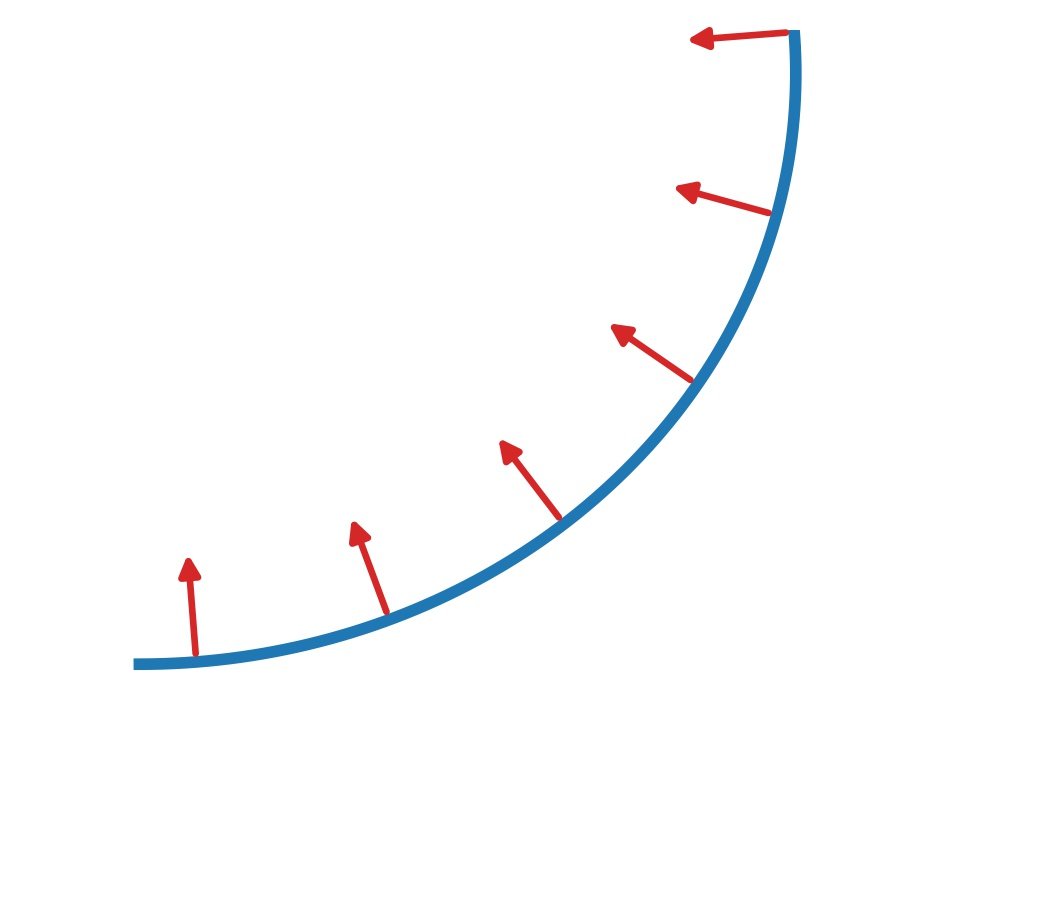
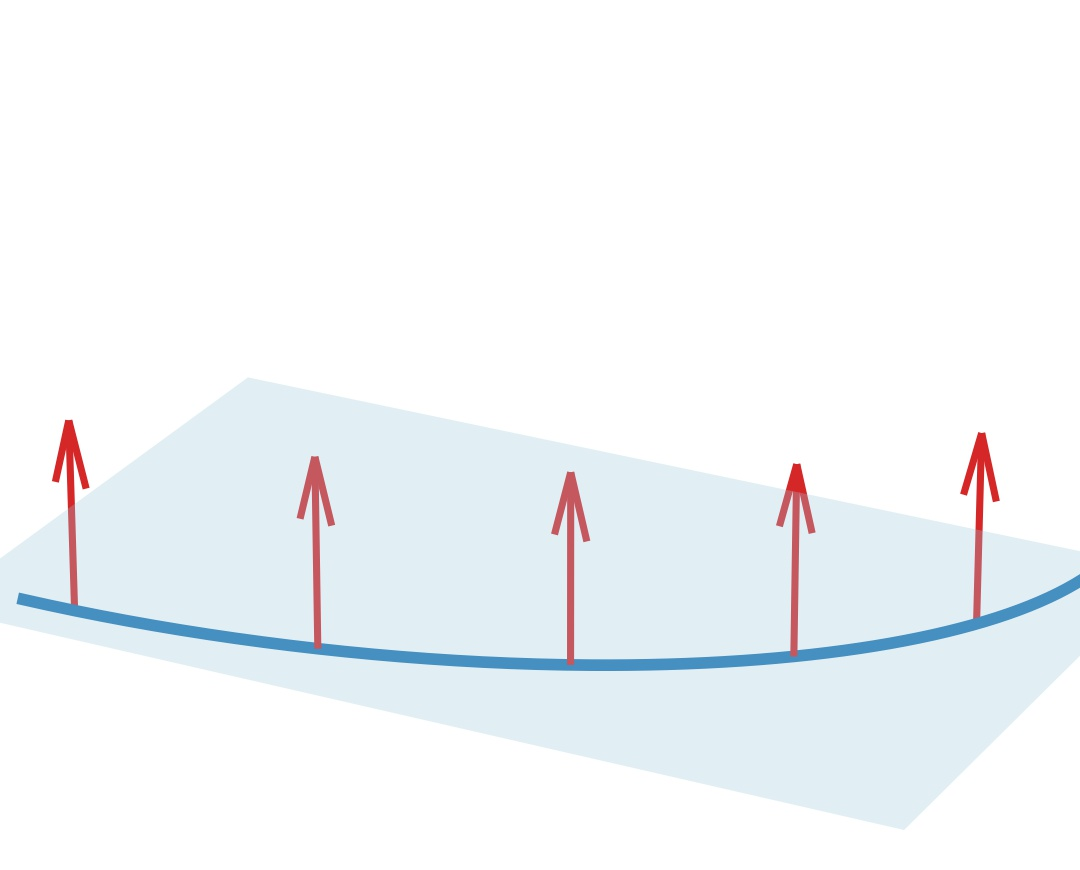
Overnight batch: K=32 value-law pools, fixed-entropy continuous PPO, 3D figure, guaranteed l_pw upper reference
- Selector campaign regenerated at K=32/N_dir=40 with labels rolled under
  the VALUE law (previous labels were margin-law rollouts, inconsistent
  with the text); rankers retrained. Tables II/III/V rebuilt.
- Framework (FR3 benchmark): random 0.617 -> selector 0.677 -> oracle
  0.706 m; fractions of l_pw 0.87/0.90, 0.95/0.98, 0.98/0.99, all <= 1
  per task by construction.
- l_pw finalized: 1 cm march, 96 directions, 16 retries, rollout
  witnesses; residual overtakes <= 11 mm (one step) on 17.8% of tasks,
  absorbed by the stated per-task max definition (binds by 2.8 mm mean).
- Continuous PPO retrained with tanh-corrected entropy: 1.26 (was 1.39,
  an entropy-bug artifact that saturated the policy); vertex
  parameterization now shown to be beneficial. Row 2 + text rewritten.
- OOD table in stroke + fraction-of-oracle; transfer restated: capture
  follows path curvature, unseen families match seen families per class.
- Fig. 2 panels redrawn in 3D with translucent task plane.

diff --git a/Yuan/IJRR/2026_Yuan_RAL/main.tex b/Yuan/IJRR/2026_Yuan_RAL/main.tex
@@ -561,8 +561,8 @@ disjoint.
 
     \item \uline{Initial configurations:}
     For the full-framework and selection experiments, the candidate pool
-    contains $K=8$ configurations retrieved from
-    $N_{\mathrm{dir}}=10$ directions using IKSel. The learned selector
+    contains $K=32$ configurations retrieved from
+    $N_{\mathrm{dir}}=40$ directions using IKSel. The learned selector
     ranks these candidates, and the selected configuration is followed by
     one damped-least-squares refinement. Controller-only comparisons use
     the same fixed initial configuration for all methods to isolate the
@@ -592,19 +592,23 @@ disjoint.
     the mean per-task ratio to the classical controller. For experiments
     requiring a task-specific reachability reference, we additionally use
     the numerical pointwise-reachable length $\ell^{\mathrm{pw}}$,
-    computed as follows. The task's path is sampled every $2$\,cm of arc
+    computed as follows. The task's path is sampled every $1$\,cm of arc
     length, and at each sample a numerical search asks whether any
     admissible configuration exists, i.e., one whose tool tip lies within
     $\epsilon_{\mathrm{pos}}$ of the sample, whose tool axis lies inside
     the orientation cone, and which respects the joint limits and
     self-collision clearance. The search projects warm starts drawn from a
-    precomputed configuration table over cone-sampled tool directions,
-    together with the previous sample's solution;
+    precomputed configuration table over $96$ cone-sampled tool directions
+    with $16$ retries per sample, together with the previous sample's
+    solution, and configurations traversed by the evaluated rollouts are
+    additionally injected as feasibility witnesses;
     $\ell^{\mathrm{pw}}$ is the arc length of the first sample at which no
     admissible configuration is found. Because a failed search does not
-    prove infeasibility, configurations traversed by the evaluated
-    rollouts are additionally injected as feasibility witnesses, so the
-    reference is never below any evaluated stroke.
+    prove infeasibility, the reference is finally taken per task as the
+    maximum of the search estimate and the executed stroke, so it is never
+    below any evaluated stroke; at the deployed budget this adjustment
+    binds on $17.8\%$ of tasks, by $2.8$\,mm on average and $11$\,mm at
+    most, about one march step.
 \end{itemize}
 
 For the initial-configuration generalization study, we additionally
@@ -641,10 +645,11 @@ path families.
     \caption{Path families used to evaluate initial-configuration
     generalization: (a) a straight ray; (b) an arc with signed curvature;
     (c) a serpentine seam with sinusoidal lateral offset; and (d) a
-    straight path with a rotating cone axis. Red arrows indicate the local
-    cone axis $\mathbf{n}(s)$. Families (a) and (b) appear in selector
-    training, whereas (c) and (d) are used only for out-of-distribution
-    evaluation.}
+    straight path with a rotating cone axis. Each panel shows the path in
+    3D above the translucent task plane; red arrows indicate the local
+    cone axis $\mathbf{n}(s)$, which departs from the plane normal only in
+    (d). Families (a) and (b) appear in selector training, whereas (c) and
+    (d) are used only for out-of-distribution evaluation.}
     \label{fig:families}
 \end{figure*}
 
@@ -805,9 +810,9 @@ We next combine the learned initial-configuration selector with the
 critic-guided value controller. Table~\ref{tab:framework} reports the
 result on the FR3 evaluation set, with the value controller fixed across
 all rows so that only the initial configuration changes. Learned selection
-increases the mean stroke from $0.590$\,m for a randomly chosen candidate
-to $0.650$\,m. The selected trajectories achieve a median stroke equal to
-$0.97$ of the numerical pointwise-reachability reference
+increases the mean stroke from $0.617$\,m for a randomly chosen candidate
+to $0.677$\,m. The selected trajectories achieve a median stroke equal to
+$0.98$ of the numerical pointwise-reachability reference
 $\ell^{\mathrm{pw}}$, while the within-pool oracle indicates the remaining
 gap attributable to candidate ranking.
 
@@ -824,14 +829,14 @@ Initial configuration
 & \multicolumn{2}{c}{\shortstack{Fraction of $\ell^{\mathrm{pw}}$\\mean / median}} \\
 \midrule
 Random candidate
-& 0.590 & 0.84 & 0.88 \\
+& 0.617 & 0.87 & 0.90 \\
 
 \textbf{Learned selector (ours)}
-& \textbf{0.650} & \textbf{0.92} & \textbf{0.97} \\
+& \textbf{0.677} & \textbf{0.95} & \textbf{0.98} \\
 
 \midrule
 Within-pool oracle ($K$ rollouts)
-& 0.689 & 0.96 & 0.98 \\
+& 0.706 & 0.98 & 0.99 \\
 \bottomrule
 \end{tabular}
 \begin{tablenotes}
@@ -854,10 +859,10 @@ Within-pool oracle ($K$ rollouts)
 To isolate the selection stage, we fix the motion-generation controller and
 compare different ranking rules on the same candidate pool.
 Table~\ref{tab:ablate_seed} reports results on $2500$ held-out straight-path
-tasks. Taking the first feasible candidate reaches $0.85$ of the
+tasks. Taking the first feasible candidate reaches $0.87$ of the
 within-pool oracle stroke. Ranking by joint-limit margin or by the
-analytic margin field raises this to $0.91$, while the learned selector
-reaches $0.94$. These results show that rollout supervision provides a
+analytic margin field raises this to $0.92$, while the learned selector
+reaches $0.95$. These results show that rollout supervision provides a
 stronger ranking signal for initial configurations than the tested
 instantaneous geometric heuristics.
 
@@ -876,33 +881,33 @@ Type & Candidate Ranking Rule
 
 \textemdash
 & First Feasible Candidate
-& 0.537 & 0.853 \\
+& 0.571 & 0.869 \\
 
 \midrule
 Random
 & Random Valid Candidate
-& 0.553 & 0.870 \\
+& 0.584 & 0.880 \\
 
 \midrule
 \multirow{4}{*}{Heuristic}
 & Max Directional Manipulability
-& 0.548 & 0.867 \\
+& 0.579 & 0.877 \\
 & Max Orientation Margin
-& 0.548 & 0.865 \\
+& 0.580 & 0.879 \\
 & Max Joint-Limit Margin
-& 0.587 & 0.910 \\
+& 0.618 & 0.919 \\
 & Margin Field $\Phi_{\mathrm{m}}$
-& 0.586 & 0.911 \\
+& 0.621 & 0.924 \\
 
 \midrule
 Learned
 & \textbf{Learned Selector (Ours)}
-& \textbf{0.605} & \textbf{0.940} \\
+& \textbf{0.636} & \textbf{0.950} \\
 
 \midrule
 \textemdash
 & Within-Pool Oracle ($K$ Rollouts)
-& 0.656 & 1.000 \\
+& 0.681 & 1.000 \\
 
 \bottomrule
 \end{tabular}
@@ -921,17 +926,21 @@ We next examine whether the performance gap between the reactive policy and
 the value controller can be explained by the action parameterization or
 control granularity. Table~\ref{tab:action_space} reports three modifications
 on the FR3, with PPO retrained for $30$M environment steps under each
-modified setting. Replacing the vertex action space with a continuous command
-box leaves the mean policy ratio unchanged at $1.39$, indicating that the
-vertex parameterization itself does not explain the observed gap. Increasing
+modified setting. Replacing the vertex action space with a continuous
+command box \emph{lowers} the policy to $1.26$: trained with the
+tanh-corrected entropy bonus, the continuous policy no longer saturates
+the command box (median command magnitude $0.40$, under $3\%$ of
+components at the boundary) and loses part of the vertex policy's
+performance, which indicates that the vertex parameterization is itself
+beneficial, consistent with the structure derived in
+Section~\ref{sec:traj}. Increasing
 the null-space authority from $a_{\max}=0.5$ to $1.0$ yields ratios of $1.34$,
 $2.05$, and $2.09$ for the reactive policy, margin law, and value law,
 respectively. Increasing the control period from $50$ to $100$\,ms similarly
 leaves the reactive policy at $1.39$, while the value law reaches $1.93$.
 Across these tested settings, the critic-guided value controller therefore
-retains its advantage over direct policy deployment, and this advantage is
-not removed by changing either the action parameterization or the control
-interval.
+retains its advantage over direct policy deployment under every action
+parameterization and control interval tested.
 
 \begin{table}[!htbp]
 \centering
@@ -950,7 +959,7 @@ Default ($a_{\max}{=}0.5$, $50$\,ms)
 & 1.39 & 1.79 & 1.92 \\
 
 Continuous-action PPO
-& 1.39 & -- & -- \\
+& 1.26 & -- & -- \\
 
 Doubled authority ($a_{\max}{=}1.0$)
 & 1.34 & 2.05 & 2.09 \\
@@ -978,14 +987,16 @@ path families outside its training distribution. The selector is trained on
 $20{,}000$ tasks, comprising $10{,}000$ straight-line and $10{,}000$
 curved-line tasks in equal proportion, with all $K$ candidates of every
 training task rolled out to produce the ranking labels. It is then
-evaluated on $2{,}500$ held-out tasks from each of the four path families. Table~\ref{tab:ood} distinguishes \emph{Unseen}
-tasks drawn from the two training families from \emph{OOD} tasks belonging
-to sinusoidal and rotating-axis families that are absent from training.
-The selector recovers $64.9$--$67.1\%$ of the random-to-oracle gap on the
-OOD families, compared with $57.5$--$61.0\%$ on held-out tasks from the
-training families. These results show that the learned initial-configuration
-ranking transfers to the two evaluated path families not seen during
-training.
+evaluated on $2{,}500$ held-out tasks from each of the four path families.
+Table~\ref{tab:ood} distinguishes \emph{Unseen} tasks drawn from the two
+training families from \emph{OOD} tasks belonging to sinusoidal and
+rotating-axis families that are absent from training. The results show
+that the achieved fraction of the oracle is governed by path curvature
+rather than by training membership: the unseen rotating-axis family, whose
+centerline is straight, matches the seen straight family ($0.94$ vs
+$0.95$), and the unseen sinusoidal family matches the seen curved family
+($0.79$ vs $0.82$). On every family the learned selector remains the
+strongest non-oracle ranking rule.
 
 \begin{table}[!htbp]
 \centering
@@ -995,19 +1006,21 @@ training.
 \begin{tabular}{llcc}
 \toprule
 Path Type & Status
-& \shortstack{Capture\\(\%)}
-& \shortstack{Gap to Oracle\\(m)} \\
+& \shortstack{Stroke\\(m)}
+& \shortstack{Fraction\\of Oracle} \\
 \midrule
-Straight Line       & Unseen & 61.0 & 0.080 \\
-Curved Line         & Unseen & 57.5 & 0.105 \\
-Sinusoidal Line     & OOD    & 67.1 & 0.076 \\
-Rotating-Axis Path  & OOD    & 64.9 & 0.079 \\
+Straight Line       & Unseen & 0.636 & 0.950 \\
+Curved Line         & Unseen & 0.313 & 0.817 \\
+Sinusoidal Line     & OOD    & 0.296 & 0.786 \\
+Rotating-Axis Path  & OOD    & 0.624 & 0.944 \\
 \bottomrule
 \end{tabular}
 \begin{tablenotes}
     \item[Note 1] The selector is trained on straight-line and curved-line
     tasks. Unseen denotes held-out tasks from these families; OOD denotes
-    path families absent from training.
+    path families absent from training. Fraction of Oracle is the mean
+    per-task ratio of the selected stroke to the within-pool oracle stroke
+    under the same controller.
 \end{tablenotes}
 \end{threeparttable}
 \end{table}
